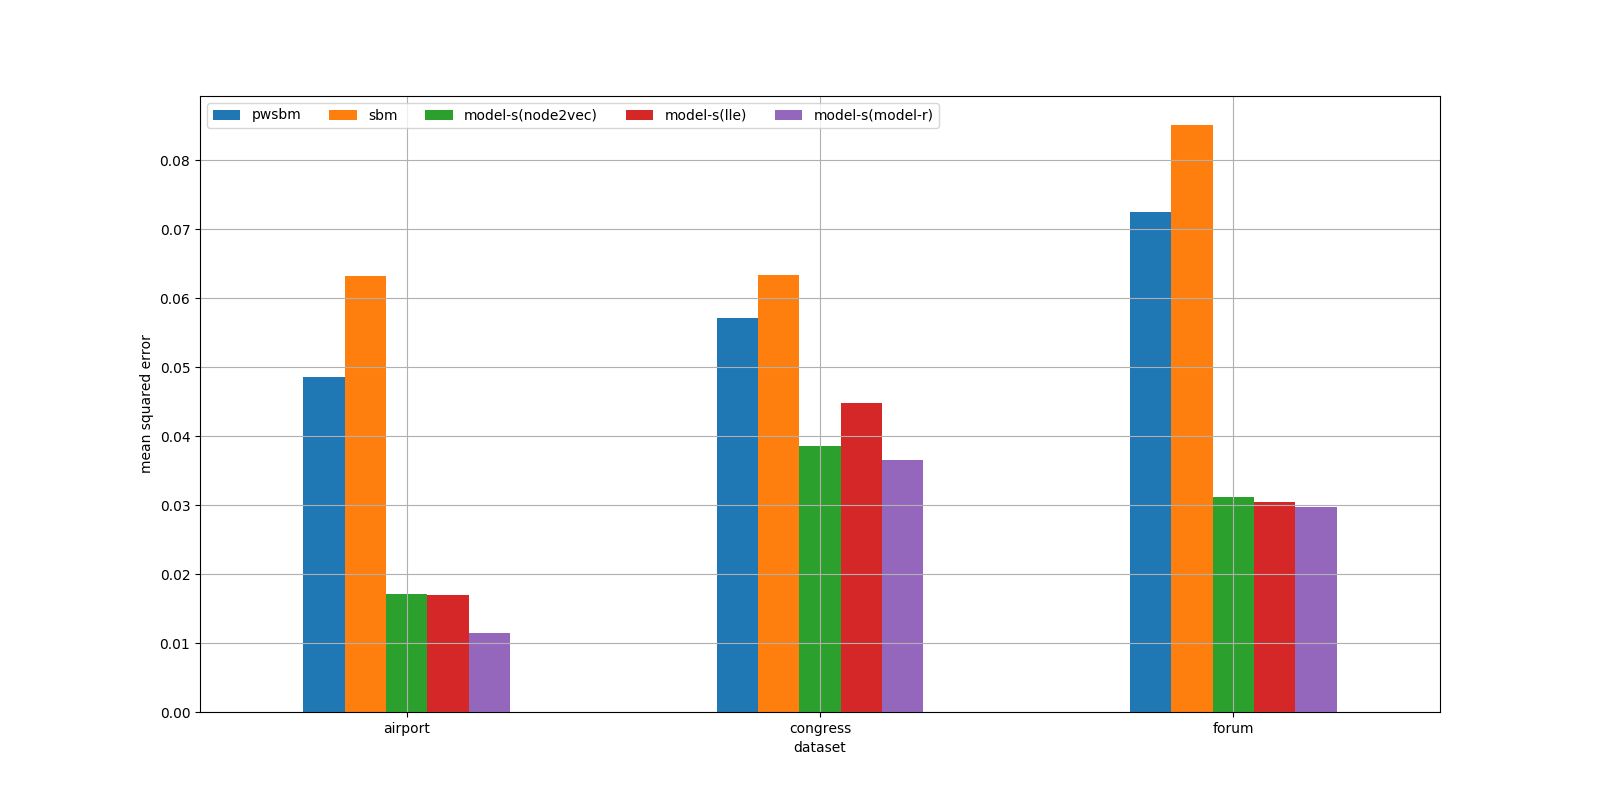
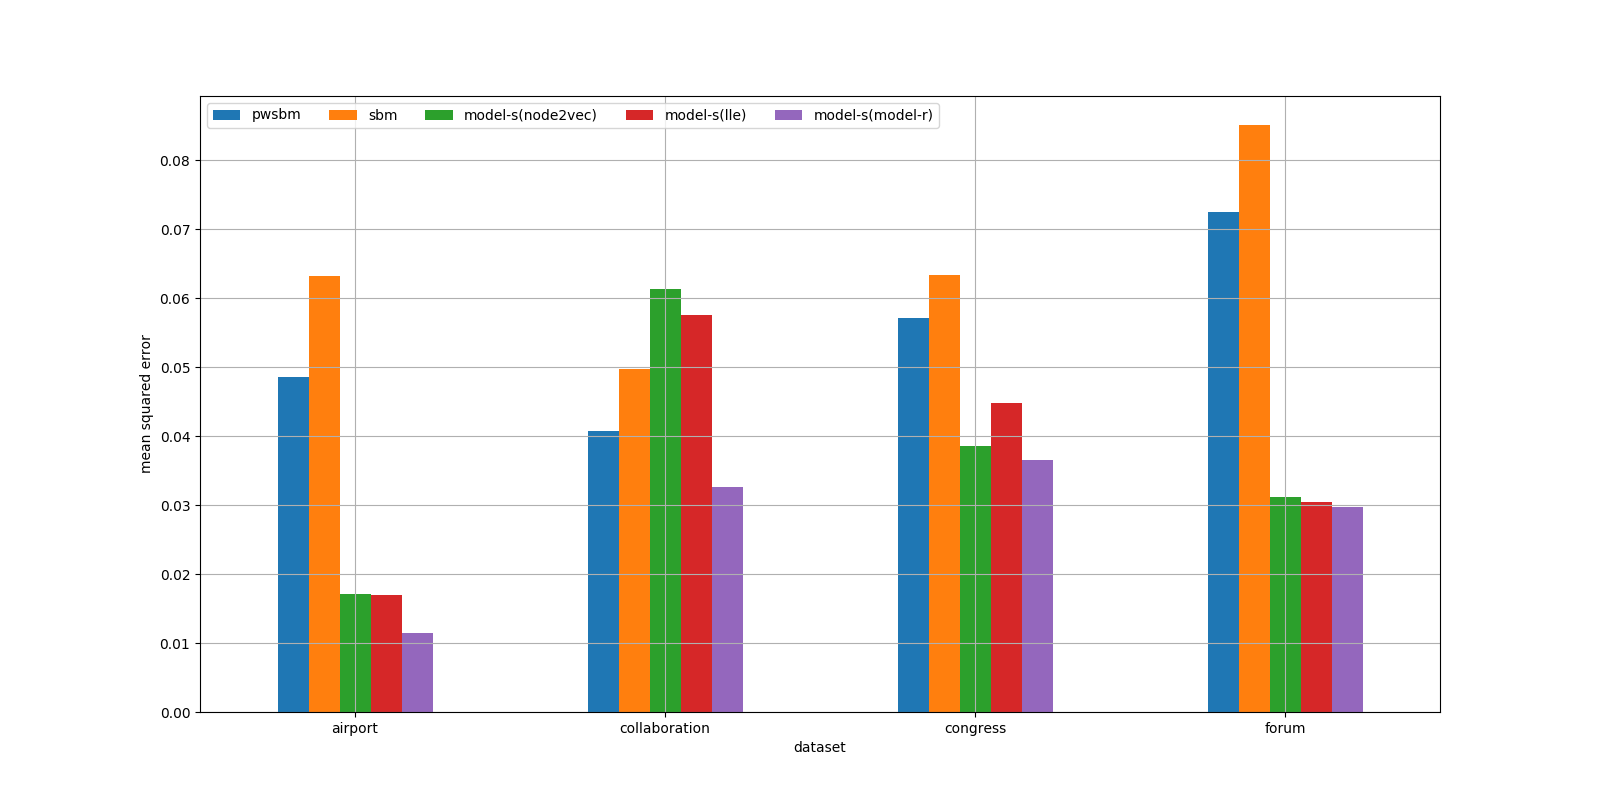
restore collaboration experiemnt

Changed region(s): [[0.1562, 0.3438, 0.6562, 0.9375], [0.6875, 0.1562, 0.875, 0.9375]]

diff --git a/iclr2018.tex b/iclr2018.tex
@@ -407,6 +407,7 @@ The experiments use the following datasets:
 \begin{itemize}
 	\item Airport \citep{colizza2007reaction}. Nodes represent the 500 busiest airports in the United States, and each of the 5960 edges is weighted by the number of passengers traveling from one airport to another.
 	\item Authors \citep{newman2001structure}. Nodes represent 16726 authors and each of the 47594 edges is weighted by the number of papers posted by two authors to Condensed Matter section of arXiv E-Print Archive between 1995 and 1999.
+	\item Collaboration \citep{pan2012world}. Nodes represent 226 nations on Earth, and each of the 20616 edges is weighted by the number of academic papers whose author lists include that pair of nations.
 	\item Congress \citep{porter2005network}. Nodes represent the 163 committees in the 102nd United States Congress, and each of the 26569 edges is weighted by the number of shared members.
 	\item Facebook \citep{opsahl2013triadic}. Nodes represent 899 users of a Facebook-like forum, and each of the 71380 edges is weighted by the number of messages posted by two users on same topics.
 	\item Forum \citep{opsahl2009clustering}. Nodes represent 1899 users of a student social network at UC Irvine, and each of the 20291 edges is weighted by the number of messages sent between users.
@@ -415,6 +416,7 @@ We split each dataset into training set (80\%) and testing set (20\%).
 We normalize the link weights in each dataset to range [-1, 1] after applying a logarithm function.
 
 \subsection{Evaluation process}
+We do the same experiment for each dataset.
 We use mean squared error as the prediction accuracy metric.
 Each experiment consists of 25 independent trials.
 For each trial we train the model using the training set and evaluates the model on the testing set.
@@ -424,19 +426,18 @@ so that everyone can use it without any restriction
 \footnote{https://github.com/xxxxxx}.
 
 \subsection{Model prediction accuracy}
-We evaluate Model S's prediction accuracy and compare it with two baselines SBM and pWSBM on 3 datasets (Airport, Congress and Forum).
-Model S (with different embedding techniques) performs better than the two baselines.
+We evaluate the performance of Model S and compare it with two baselines SBM and pWSBM on 4 datasets (Airport, Collaboration, Congress and Forum).
+The Model S's prediction accuracy is better than baselines on 3 out of 4 datasets.
 Among all Model S variants,
 the one with Model R embedding technique performs the best,
 as shown in Figure \ref{fig:errors}.
 \begin{figure}[h] \centering
 	\includegraphics[width=1\linewidth]{weight-errors}
 	\caption{
-		Model S generally performs better when using 3 different embedding techniques (LLE, Model R and node2vec) on 3 datasets (Airport, Congress and Forum).
+		Model S performs better when using 3 different embedding techniques (LLE, Model R and node2vec) on 3 out of 4 datasets (Airport, Collaboration, Congress and Forum).
 	}
 	\label{fig:errors}
 \end{figure}
-
 A few possible reasons why Model S variants can outperform baselines are:
 \begin{itemize}
 	\item Higher level of discrimination for nodes:
